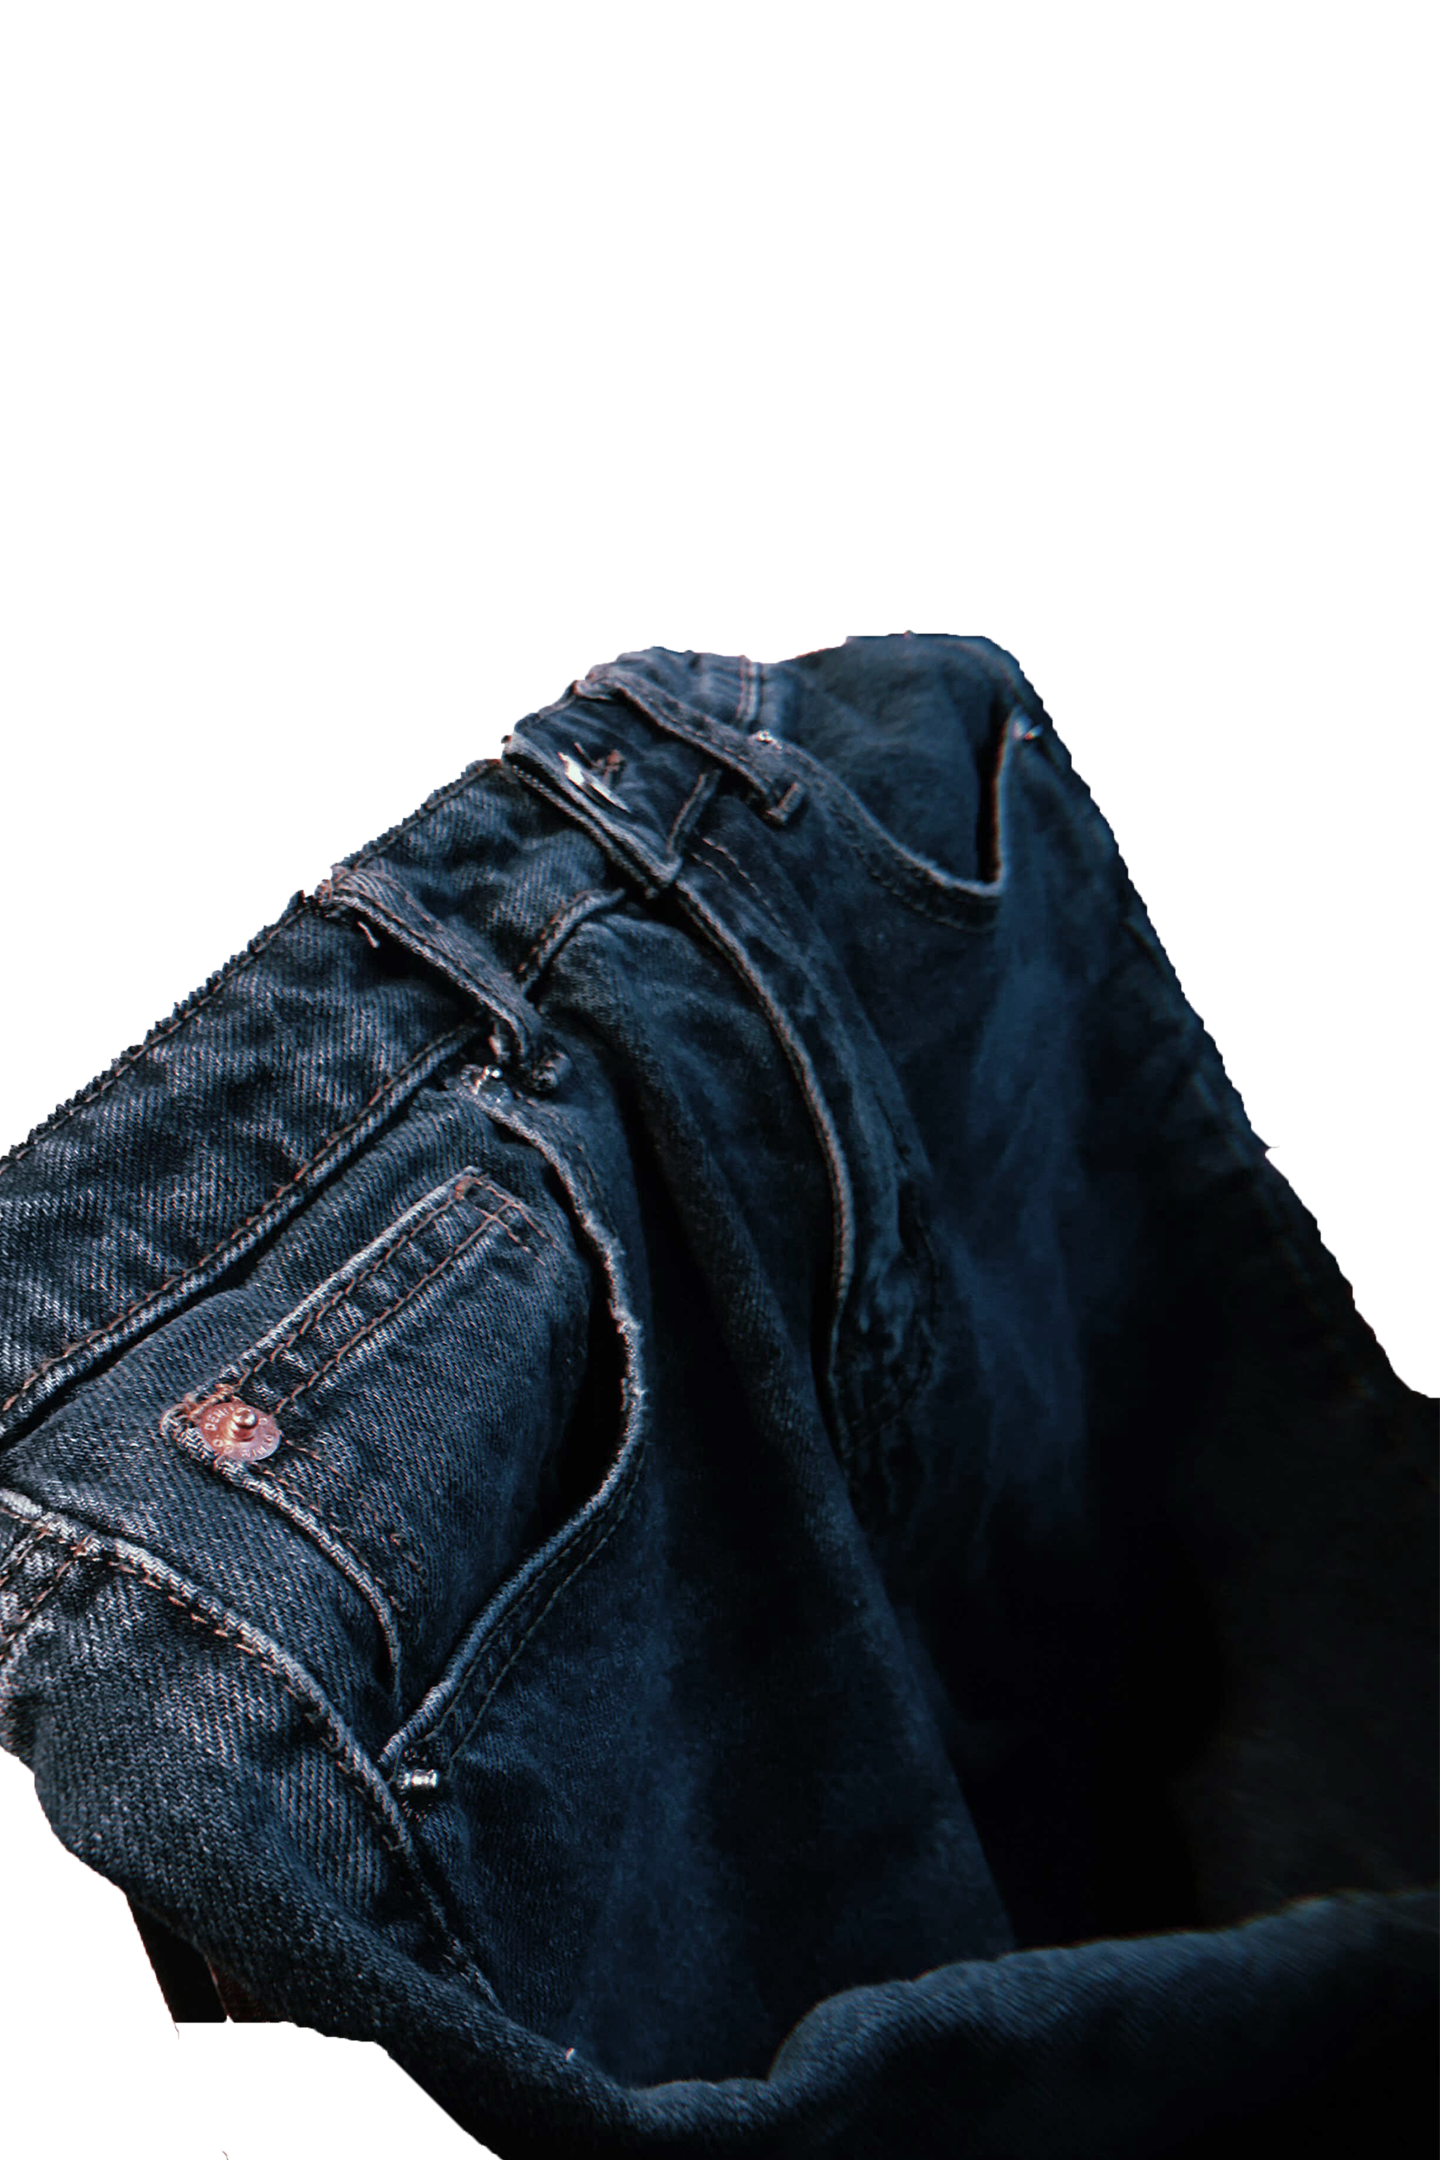
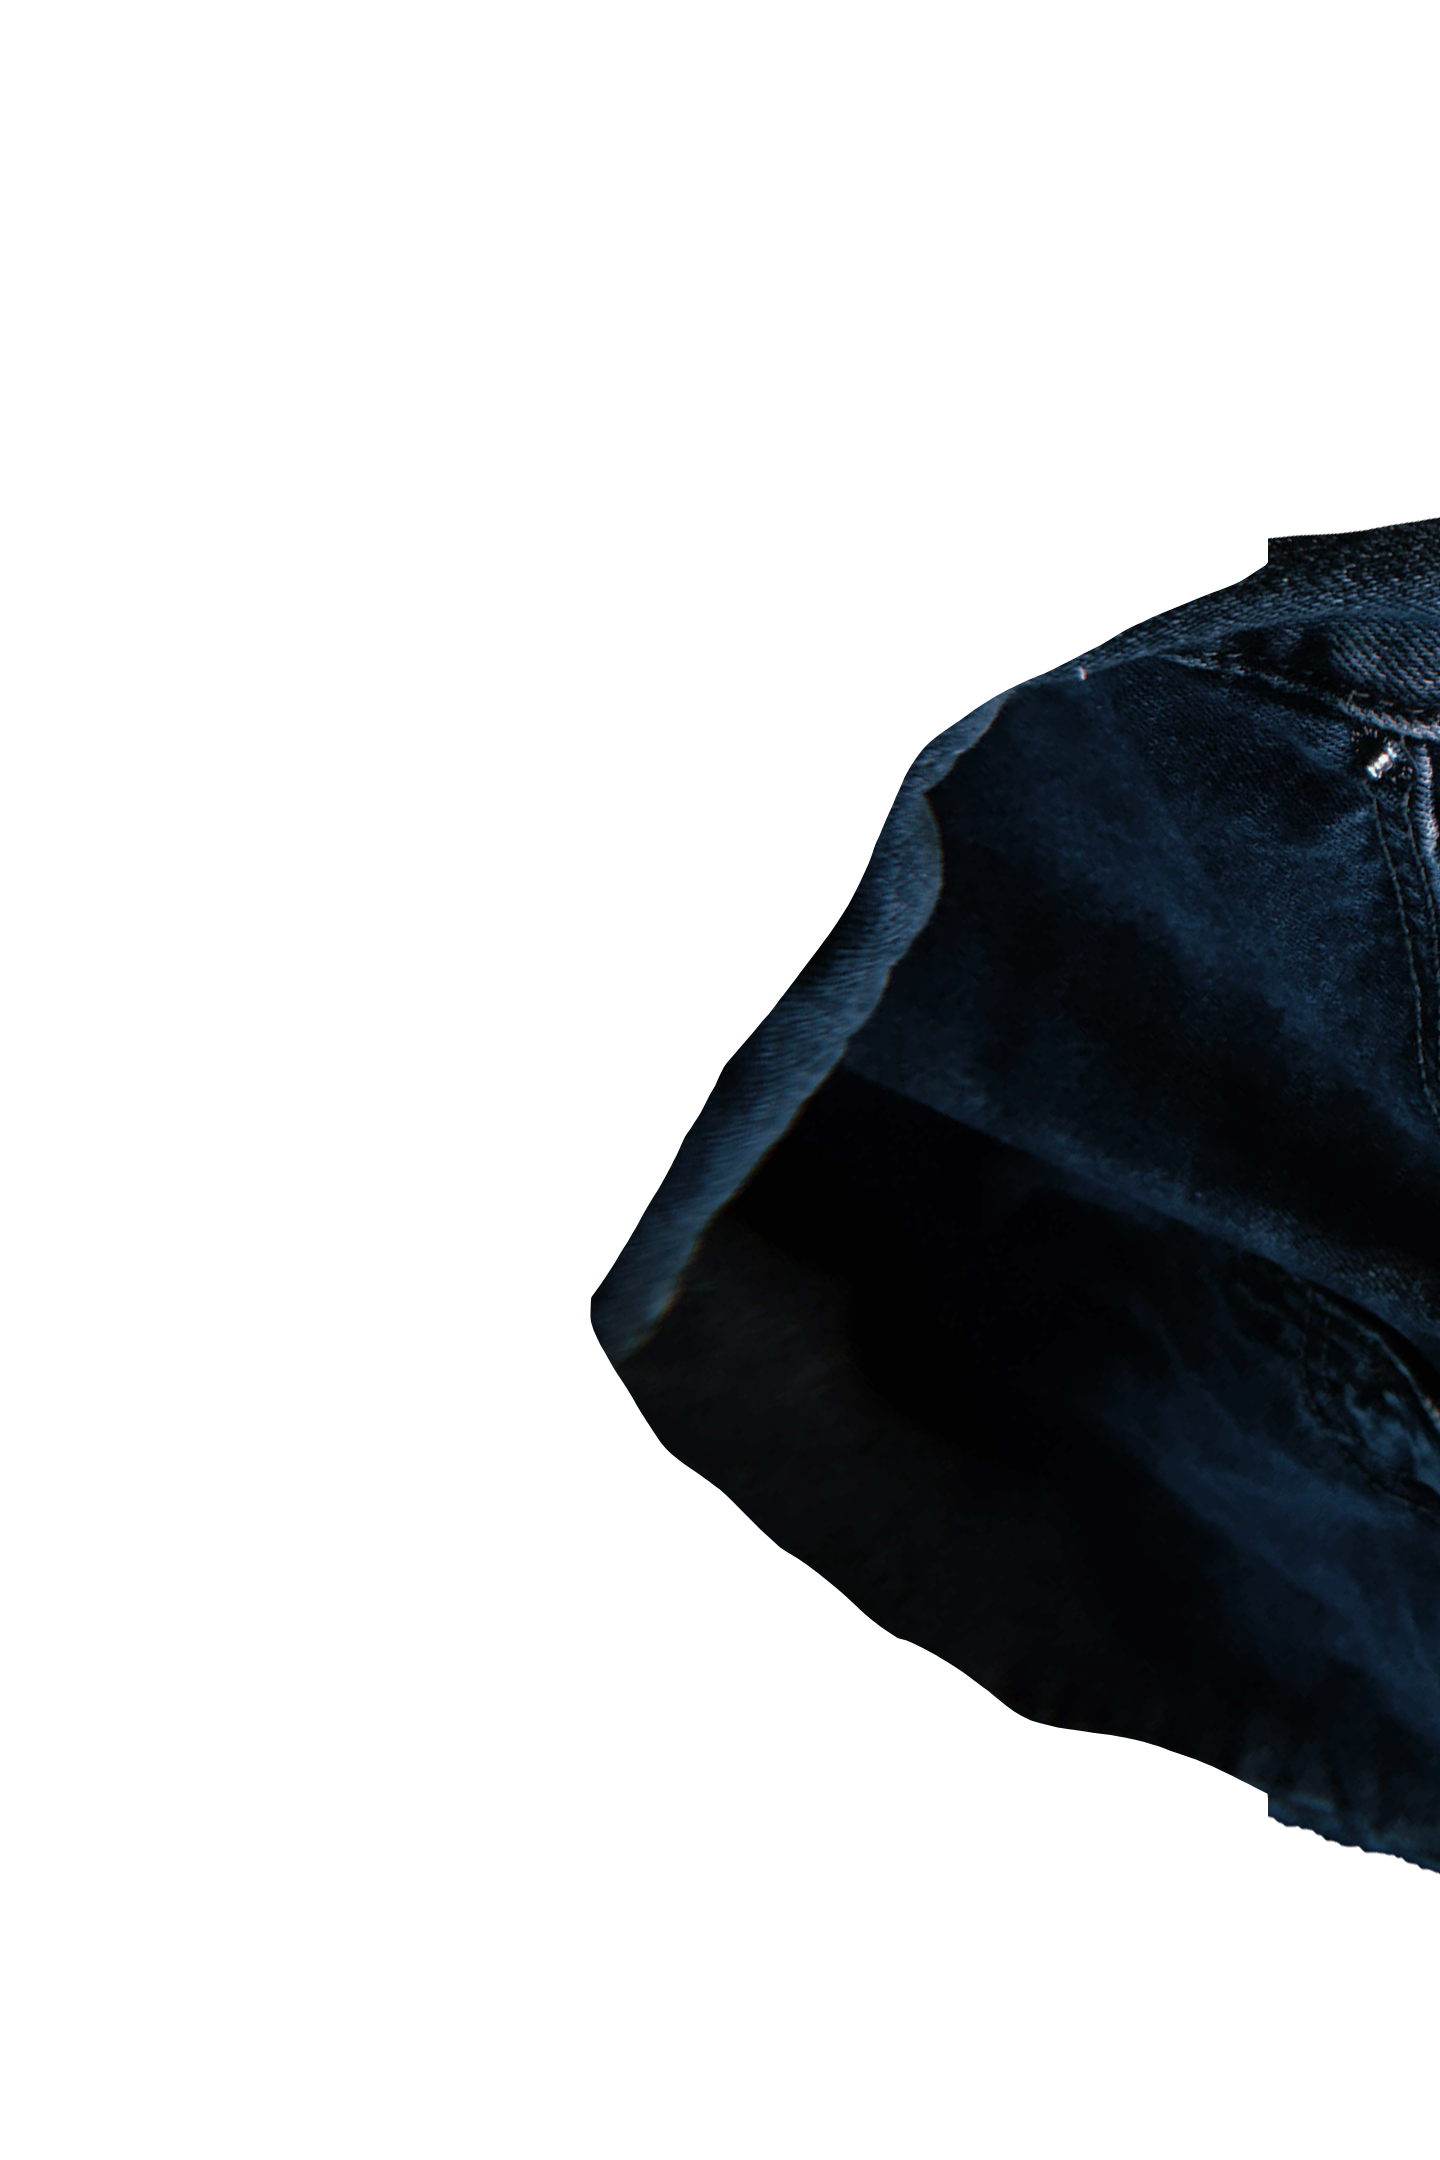
Collage
putting the collage together

diff --git a/projects/time-capsule/style2.css b/projects/time-capsule/style2.css
@@ -1,14 +1,83 @@
 body{
+	height: 600%;
+	width: 100%;
 	background: white;
 	font-family: neue-haas-grotesk-display, sans-serif;
     font-style: normal;
     font-weight: 500;
 }
 
+.container{
+	height: auto;
+	width: 50%;
+	background: white;
+	position: absolute;
+	margin-left: auto;
+	margin-right: auto;
+	left: 0;
+	right: 0; 
+}
+
+.closeup{
+	position: absolute;
+	left: auto;
+	right: auto;
+}
 
 .one{
 	position: absolute;
-	top: 280%;
-	left: 600px;
+	top: auto;
+	left: 20%;
+	right: 20%;
+	margin-top: 150%;
+}
+
+.two{
+	position: absolute;
+	top: auto;
+	left: 0%;
+	margin-top: 190%;
+}
+
+.three{
+	position: relative;
+	top: auto;
+	left: 40%;
+	margin-top: 220%;
+}
+
+.four{
+	position: relative;
+	top: auto;
+	left: -20%;
+	margin-top: -100%;
+}
+
+.five{
+	position: relative;
+	top: auto;
+	left: 20%;
+	margin-top: -30%;
+}
+
+.six{
+	position: relative;
+	top: auto;
+	left: 0%;
+	margin-top: -90%;
+}
+
+.seven{
+	position: relative;
+	top: auto;
+	left: 10%;
+	margin-top: -50%;
+}
+
+.eight{
+	position: relative;
+	top: auto;
+	left: 0%;
+	margin-top: -100%;
 }
 

diff --git a/projects/time-capsule/template2.html b/projects/time-capsule/template2.html
@@ -9,14 +9,50 @@
 <body>
 
 
-	<img src="closeup.png" alt="closeup">
 
-	<div class="one">
-		<img src ="1.png" style="width: 700px; height: 1000px;">
+	<div class="container">
+
+
+		<div class="closeup">
+			<img src="closeup.png" style="width: 100%; height: 100%">
+		</div>
+
+
+		<div class="one">
+			<img src ="1.png" style="width: 100%; height: 120%;">
+		</div>
+
+		<div class="two">
+			<img src ="3.png" style="width: 50%; height: 50%;">
+		</div>
+	
+
+		<div class="three">
+			<img src ="4.png" style="width: 60%; height: 100%;">
+		</div>
+
+		<div class="four">
+			<img src ="10.png" style="width: 100%; height: 120%;">
+		</div>
+
+		<div class="five">
+			<img src ="5.png" style="width: 80%; height: 80%;">
+		</div>
+
+
+		<div class="six">
+			<img src ="9.png" style="width: 90%; height: 80%;">
+		</div>
+
+		<div class="seven">
+			<img src ="2.png" style="width: 90%; height: 80%;">
+		</div>
+
+		<div class="eight">
+			<img src ="11.png" style="width: 90%; height: 100%;">
+		</div>
 
 	</div>
-
-
 
 
 </body>
